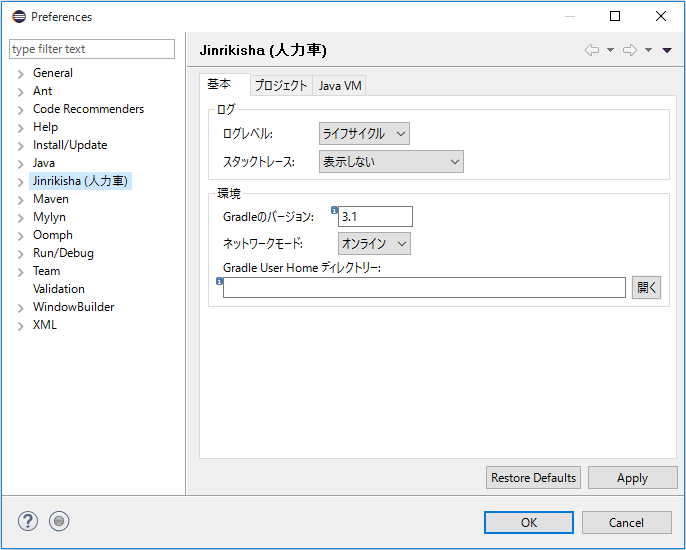
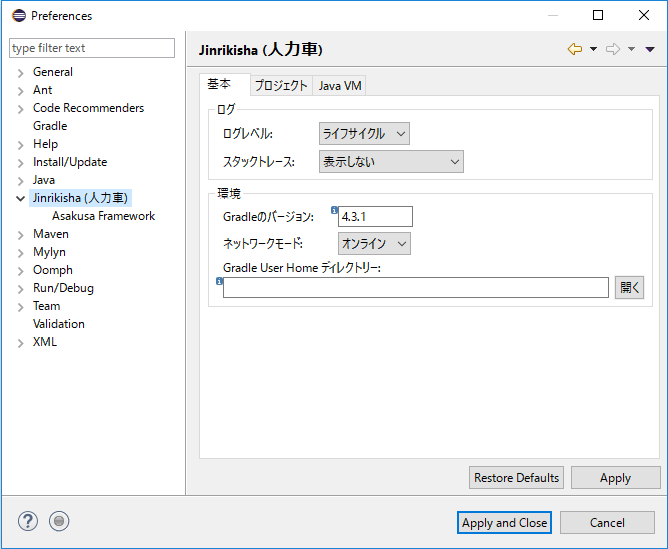
Revise for Asakusa Framework 0.10.0

Changed region(s): [[0.0, 0.0, 1.0, 1.0], [0.8383, 0.0619, 0.9281, 0.1239], [0.6587, 0.2787, 0.7186, 0.3406]]

diff --git a/docs/ja/source/eclipse-shafu.rst b/docs/ja/source/eclipse-shafu.rst
@@ -96,7 +96,7 @@ Shafuの設定
 
 1. Eclipse設定画面から :guilabel:`Jinrikisha  (人力車)` を選択します。
 
-2. :guilabel:`基本` タブの :guilabel:`環境` - :guilabel:`Gradleのバージョン` を ``3.1`` と入力し、画面右下の :guilabel:`Apply` ボタンを押下します。
+2. :guilabel:`基本` タブの :guilabel:`環境` - :guilabel:`Gradleのバージョン` を ``4.3.1`` と入力し、画面右下の :guilabel:`Apply` ボタンを押下します。
 
 ..  figure:: images/change-shafu-gradle.png
 
